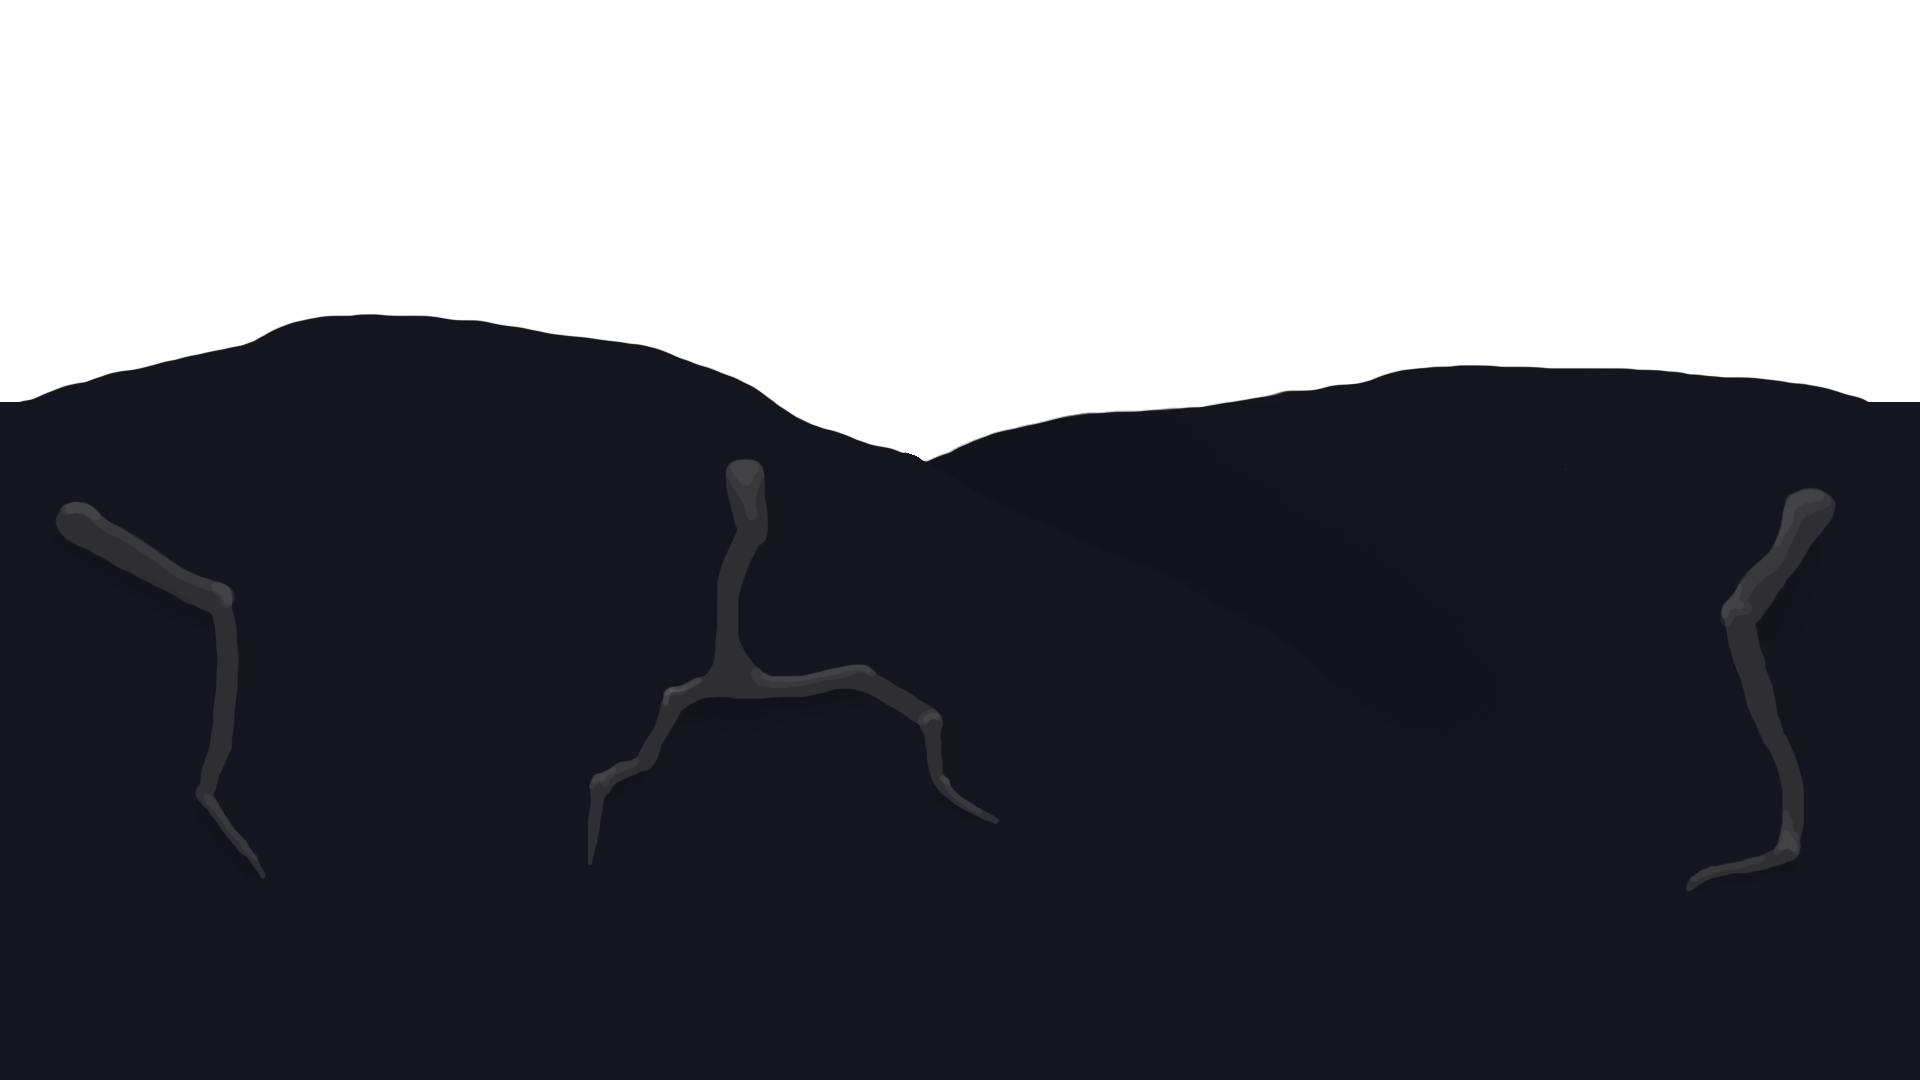
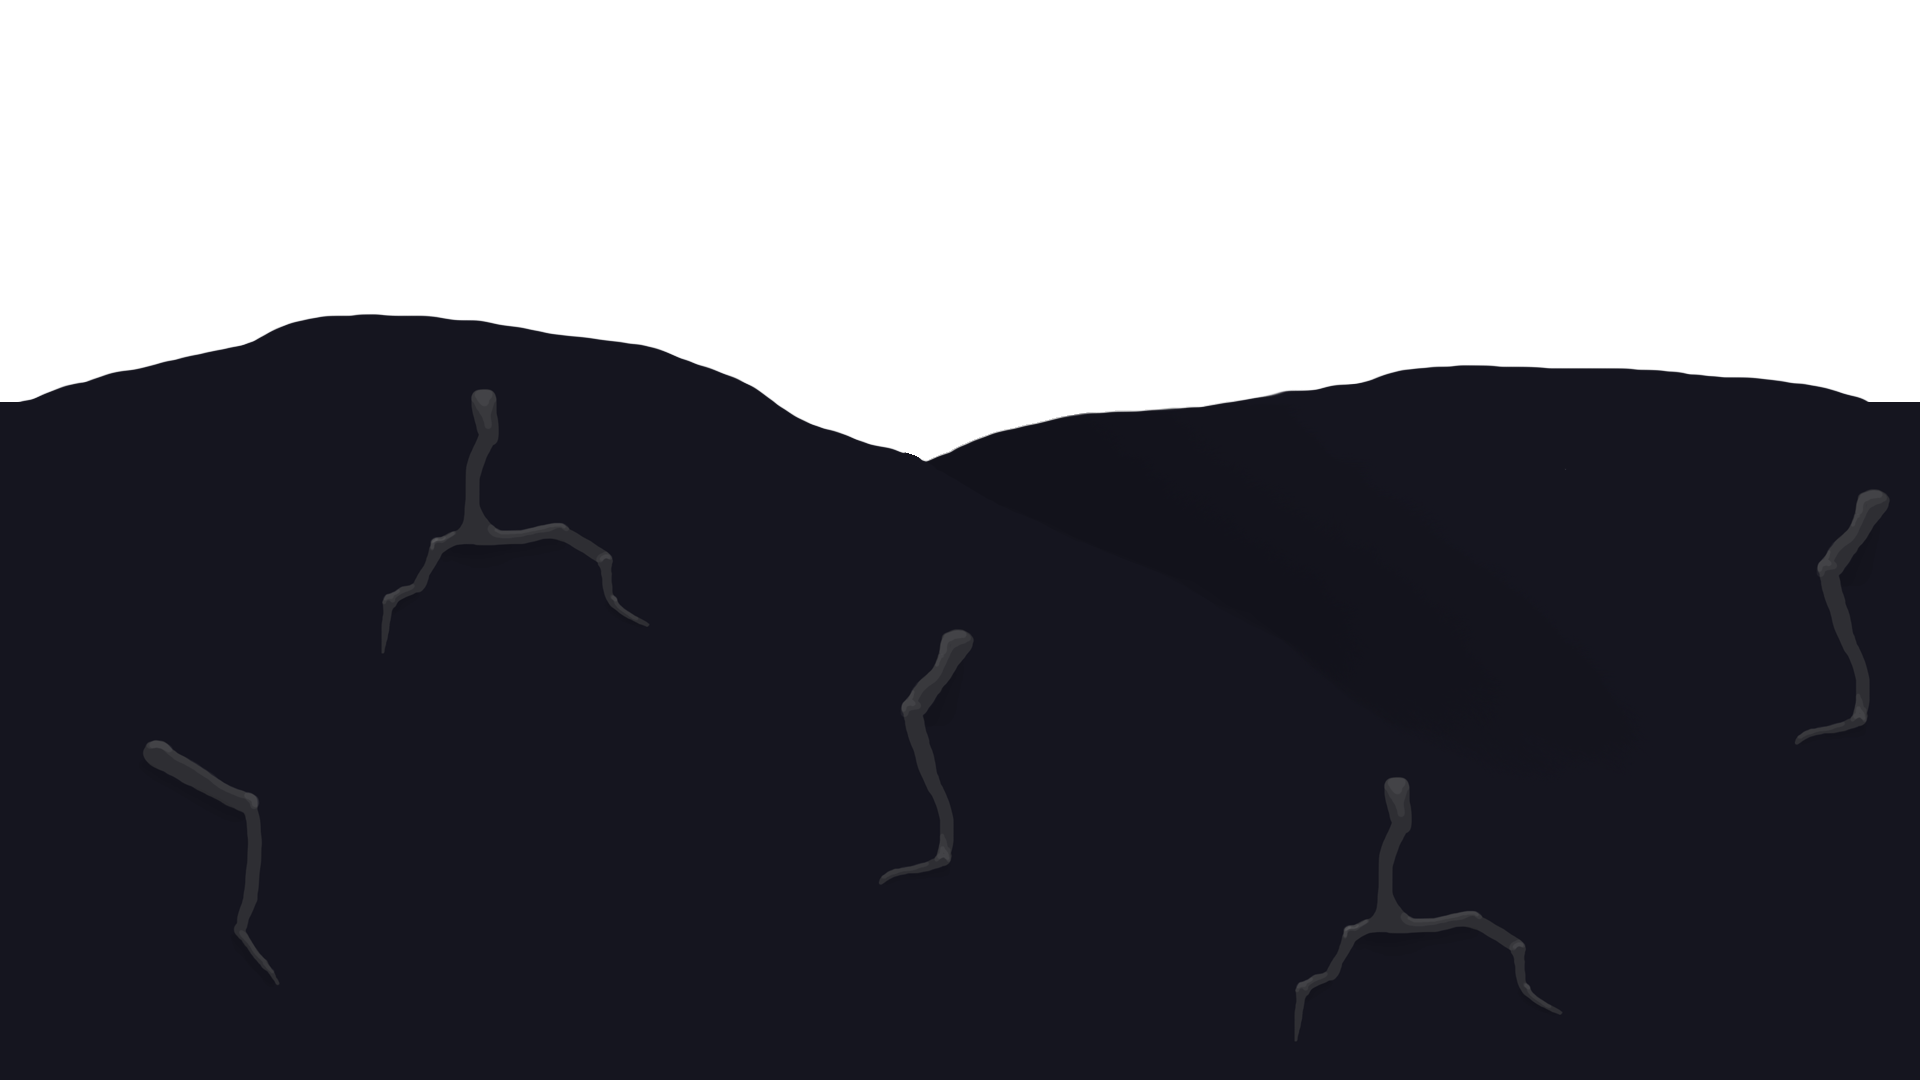
touched up background assets and added save spot tree asset

diff --git a/2D-WraithwoodChronicles/Assets/Scripts/GameManager.cs b/2D-WraithwoodChronicles/Assets/Scripts/GameManager.cs
@@ -36,7 +36,7 @@ public class GameManager : MonoBehaviour
             Destroy(gameObject);
         }
 
-        //player = GameObject.FindGameObjectWithTag("Player");
+        player = GameObject.FindGameObjectWithTag("Player");
 
         SpawnPoint[] foundSpawnPoints = FindObjectsOfType<SpawnPoint>();
         foreach(var sp in foundSpawnPoints)
@@ -67,12 +67,29 @@ public class GameManager : MonoBehaviour
 
     public void SpawnPlayer()
     {
+        UIManager.Instance.blackScreenCanvasGroup.alpha = 1f;
+
         player = GameObject.FindGameObjectWithTag("Player");
+
+        player.GetComponent<PlayerController>().DisableMovement();
 
         if (currentSpawnPoint != null)
         {
-            player.transform.position = currentSpawnPoint.transform.position;
+            player.transform.position = new Vector3(currentSpawnPoint.transform.position.x - 10, 
+                                                    currentSpawnPoint.transform.position.y,
+                                                    currentSpawnPoint.transform.position.z);
         }
+
+        StartCoroutine(WaitForFade());
+    }
+
+    public IEnumerator WaitForFade()
+    {
+        yield return new WaitForSeconds(1);
+
+        player.GetComponent<PlayerController>().EnableMovement();
+
+        StartCoroutine(UIManager.Instance.FadeOutBlackScreen(3));
     }
 
     public void ChangeSpawnPoint(SpawnPoint spawnPoint)
@@ -113,6 +130,14 @@ public class GameManager : MonoBehaviour
     {
         //Wait for scene to load
         yield return null;
+
+        playerSpawnPoints.Clear();
+
+        SpawnPoint[] foundSpawnPoints = FindObjectsOfType<SpawnPoint>();
+        foreach(var sp in foundSpawnPoints)
+        {
+            playerSpawnPoints.Add(sp);
+        }
 
         foreach(var sp in playerSpawnPoints)
         {

diff --git a/2D-WraithwoodChronicles/Assets/Scripts/Scylus.cs b/2D-WraithwoodChronicles/Assets/Scripts/Scylus.cs
@@ -112,13 +112,13 @@ public class Scylus : MonoBehaviour
 
         yield return new WaitForSeconds(2f);
 
-        StartCoroutine(UIManager.Instance.FadeInBlackScreen());
+        StartCoroutine(UIManager.Instance.FadeInBlackScreen(1));
 
         yield return new WaitForSeconds(2f);
 
         UIManager.Instance.SetupAbilityScreen("Claw Ability Obtained", "Left-click to slash enemies");
         UIManager.Instance.ChangeAbilityScreenActive(false);
-        StartCoroutine(UIManager.Instance.AbilityGainedScreen());
+        StartCoroutine(UIManager.Instance.AbilityGainedScreen(1));
 
         yield return new WaitForSeconds(4.5f);
 
@@ -128,7 +128,7 @@ public class Scylus : MonoBehaviour
         }
 
         UIManager.Instance.ChangeAbilityScreenActive(true);
-        StartCoroutine(UIManager.Instance.FadeOutBlackScreen());
+        StartCoroutine(UIManager.Instance.FadeOutBlackScreen(1));
 
         animator.SetBool("isInfected", false);
         isInfected = false;
@@ -147,7 +147,7 @@ public class Scylus : MonoBehaviour
     {
         playerController.DisableMovement();
 
-        StartCoroutine(UIManager.Instance.FadeInBlackScreen());
+        StartCoroutine(UIManager.Instance.FadeInBlackScreen(1));
 
         yield return new WaitForSeconds(2f);
 
@@ -156,7 +156,7 @@ public class Scylus : MonoBehaviour
 
         yield return new WaitForSeconds(1f);
 
-        StartCoroutine(UIManager.Instance.FadeOutBlackScreen());
+        StartCoroutine(UIManager.Instance.FadeOutBlackScreen(1));
 
         yield return new WaitForSeconds(1f);
 

diff --git a/2D-WraithwoodChronicles/Assets/Scripts/UIManager.cs b/2D-WraithwoodChronicles/Assets/Scripts/UIManager.cs
@@ -16,7 +16,6 @@ public class UIManager : MonoBehaviour
     [Header("Black Screen")]
     public GameObject blackScreenPanel;
     public CanvasGroup blackScreenCanvasGroup;
-    public float fadeDuration;
 
     [Header("New Ability Screen")]
     public GameObject newAbilityPanel;
@@ -48,7 +47,7 @@ public class UIManager : MonoBehaviour
         curseEnergyAmount.text = GameManager.Instance.currentCurseEnergyAmount.ToString();
     }
 
-    public IEnumerator FadeInBlackScreen()
+    public IEnumerator FadeInBlackScreen(float fadeDuration)
     {
         float timer = 0f;
         while (timer < fadeDuration)
@@ -60,7 +59,7 @@ public class UIManager : MonoBehaviour
         blackScreenCanvasGroup.alpha = 1f;
     }
 
-    public IEnumerator FadeOutBlackScreen()
+    public IEnumerator FadeOutBlackScreen(float fadeDuration)
     {
         float timer = 0f;
         while (timer < fadeDuration)
@@ -78,7 +77,7 @@ public class UIManager : MonoBehaviour
         abilityDescriptionText.text = abilityDescription;
     }
 
-    public IEnumerator AbilityGainedScreen()
+    public IEnumerator AbilityGainedScreen(float fadeDuration)
     {
         float timer = 0f;
         Color currentColor = abilityGainedText.color;
